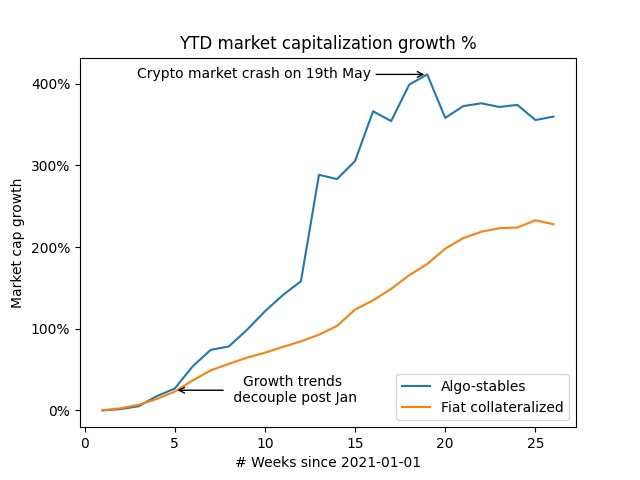
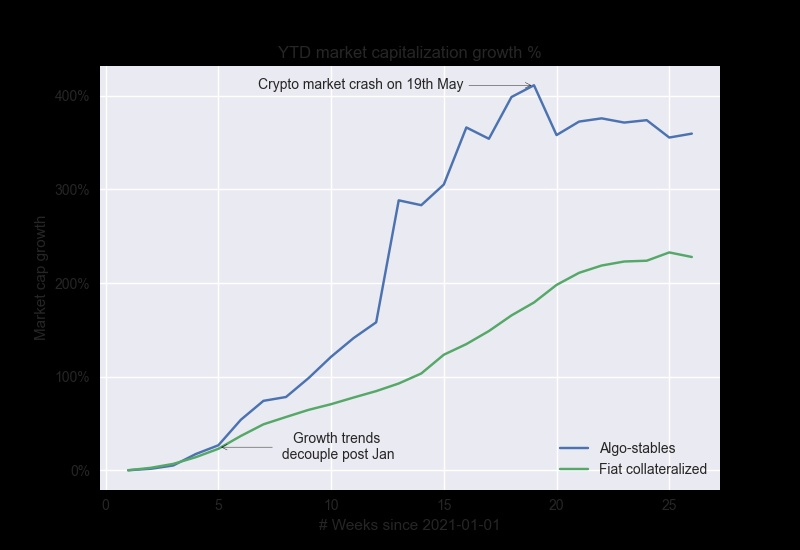
seaborn style

diff --git a/main.py b/main.py
@@ -5,9 +5,10 @@ import time
 from datetime import datetime
 import matplotlib.pyplot as plt
 import matplotlib.ticker as mtick
+import seaborn
 cg = CoinGeckoAPI()
 
-# List of stables to analyse
+# List of stables to analyse - these are the top 15 stables by market cap on 1st July 2021. Source: coingecko
 coins = [
     'tether'
     ,'usd-coin'
@@ -27,6 +28,9 @@ coins = [
 ]
 coins_df = pd.DataFrame(coins)
 coins_df.columns = ['symbol']
+
+
+################################################# Algo vs Fiat chart ################################################# 
 
 # Classification
 coins_df['type'] = np.where(coins_df['symbol'].isin(['tether','usd-coin'
@@ -73,6 +77,7 @@ df_grp = df_grp.pivot(index = 'week_x', columns = 'Type', values = 'YTD growth')
 
 # Plot
 ax = df_grp.plot()
+plt.style.use('seaborn')
 plt.title("YTD market capitalization growth %")
 plt.xlabel('# Weeks since 2021-01-01')
 plt.ylabel('Market cap growth')
@@ -101,4 +106,61 @@ ax.annotate(
     horizontalalignment='center',  # Center horizontally
     verticalalignment='center')
 
+# plt.show()
 plt.savefig('plot.jpeg')
+
+
+
+################################################# Market cap chart #################################################
+
+# df = pd.read_csv('raw_data_pull.csv')[['timestamp', 'mcap', 'symbol']] # read YTD data
+
+coins = ['tether','usd-coin','binance-usd','dai','terrausd']
+
+df = pd.DataFrame()
+for i in range(0,len(coins)):
+    coin = coins[i]
+    x = cg.get_coin_market_chart_range_by_id(id=coin,vs_currency='usd',from_timestamp='1593541800',to_timestamp='1625072479') # last 1 year
+    xmcap = x['market_caps']
+    xdf = pd.DataFrame(xmcap)
+    xdf['symbol'] = coins[i]
+    df = df.append(xdf)
+    print(f'Data pulled for {coins[i]}, waiting for 3 secs')
+    time.sleep(3) # to not stress the API
+
+df.columns = ['timestamp', 'mcap', 'symbol']
+
+df['date'] = pd.to_datetime(df['timestamp'],unit='ms')
+df = df[df['symbol'].isin(['tether','usd-coin','binance-usd','dai','terrausd'])] # Filter to top 5 by mcap
+df['mcap'] = df['mcap']/1000000000
+
+df = df.replace(to_replace ="tether",value ="USDT")
+df = df.replace(to_replace ="usd-coin",value ="USDC")
+df = df.replace(to_replace ="binance-usd",value ="BUSD")
+df = df.replace(to_replace ="dai",value ="Dai")
+df = df.replace(to_replace ="terrausd",value ="UST")
+
+df = df.pivot(index = 'date', columns = 'symbol', values = 'mcap')
+
+df.plot()
+plt.xlabel("")
+plt.ylabel("Market Capitalization (billions $)")
+plt.legend(*(
+    [ x[i] for i in [3,2,0,1,4] ]
+    for x in plt.gca().get_legend_handles_labels()
+), handletextpad=0.75, loc='best')
+plt.legend(title = 'Stablecoin', fontsize = 8)
+plt.show()
+
+
+df.plot()
+plt.style.use('seaborn')
+plt.title("Market capitalization of top 5 stables")
+plt.xlabel("")
+plt.ylabel("Market Capitalization ($ billions)")
+plt.legend(*(
+    [ x[i] for i in [3,2,0,1,4] ]
+    for x in plt.gca().get_legend_handles_labels()
+), handletextpad=0.75, loc='best')
+# plt.legend(title = 'Stablecoin', fontsize = 8)
+plt.savefig('plot_mcap.jpeg')
